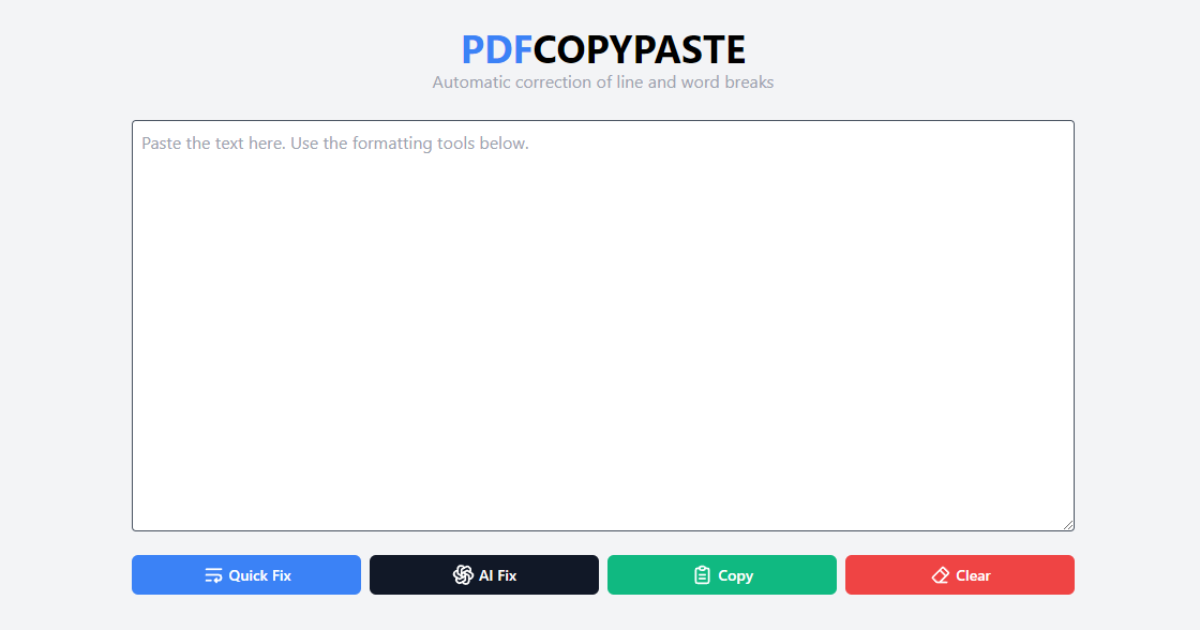
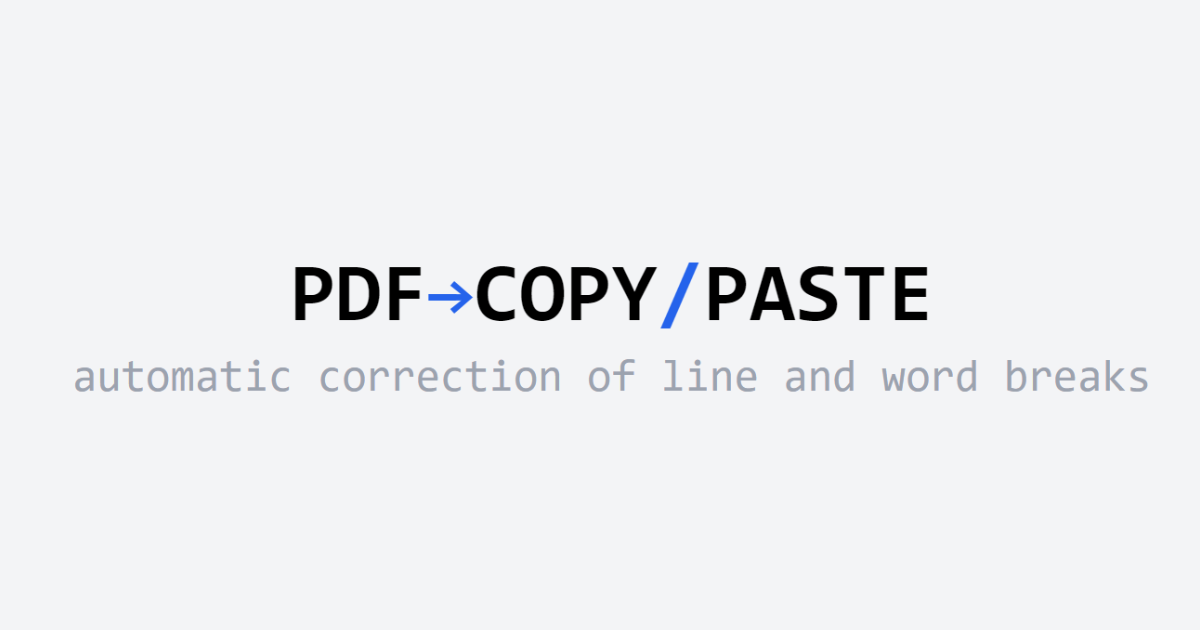
Auto clipboard copy

diff --git a/src/routes/+page.svelte b/src/routes/+page.svelte
@@ -2,11 +2,10 @@
 	import TablerClipboardText from '~icons/tabler/clipboard-text';
 	import TablerTextWrap from '~icons/tabler/text-wrap';
 	import TablerEraser from '~icons/tabler/eraser';
-	import TablerBrandGithub from '~icons/tabler/brand-github';
 	import TablerBrandOpenai from '~icons/tabler/brand-openai';
-	import TablerBrandVercel from '~icons/tabler/brand-vercel';
 
 	let loading = false;
+	let autoClipboard = false;
 
 	let userPrompt = '';
 	let errorMessage: string | undefined = '';
@@ -22,6 +21,10 @@
 			.replace(//g, '')
 			.replace(/‑/g, '-')
 			.replace(/- /g, '');
+
+		if (autoClipboard) {
+			copyClipboard(userPrompt);
+		}
 	}
 
 	async function formatAI() {
@@ -45,6 +48,9 @@
 
 				if (response.message && response.message.content) {
 					userPrompt = response.message.content;
+					if (autoClipboard) {
+						copyClipboard(userPrompt);
+					}
 				} else {
 					errorMessage = 'Something went wrong :(';
 				}
@@ -57,13 +63,6 @@
 		}
 	}
 </script>
-
-<div class="my-6 text-center ">
-	<h1 class="text-4xl font-bold uppercase">
-		<span class="text-blue-500">PDF</span>COPYPASTE
-	</h1>
-	<span class="font-mono text-gray-400">automatic correction of line and word breaks</span>
-</div>
 
 <div>
 	<div class="mx-auto w-full gap-2">
@@ -109,29 +108,24 @@
 	</div>
 </div>
 
-<div class="mx-auto mt-6 text-sm text-gray-500">
+<div class="mx-auto mt-4 text-sm text-gray-500">
 	<p><strong>Quick Fix:</strong> instant, does not preserve paragraphs.</p>
 	<p>
 		<strong>AI Fix:</strong> slower, has a character limit, preserves paragraphs.
 	</p>
 </div>
 
-<div class="mx-auto mt-20 flex gap-6 text-sm text-gray-500">
-	<a
-		href="https://github.com/phenomen/pdfcopypaste"
-		class="flex gap-1 hover:text-gray-900"
-		target="_blank"
-	>
-		<TablerBrandGithub />
-		@phenomen</a
-	>
-	<a href="https://vercel.com/" class="flex gap-1 hover:text-gray-900" target="_blank">
-		<TablerBrandVercel />
-		Vercel</a
-	>
-
-	<a href="https://openai.com/" class="flex gap-1 hover:text-gray-900" target="_blank">
-		<TablerBrandOpenai />
-		OpenAI</a
-	>
+<div class="mx-auto mt-4 flex items-start">
+	<div class="flex h-6 items-center">
+		<input
+			id="autoClipboard"
+			name="autoClipboard"
+			type="checkbox"
+			class="h-4 w-4 rounded border-gray-300 text-blue-600 focus:ring-blue-600"
+			bind:checked={autoClipboard}
+		/>
+	</div>
+	<div class="ml-2 text-sm font-medium leading-6">
+		<label for="autoClipboard">Copy to clipboard after fix</label>
+	</div>
 </div>

diff --git a/src/lib/Footer.svelte b/src/lib/Footer.svelte
@@ -1,0 +1,25 @@
+<script lang="ts">
+	import TablerBrandGithub from '~icons/tabler/brand-github';
+	import TablerBrandOpenai from '~icons/tabler/brand-openai';
+	import TablerBrandVercel from '~icons/tabler/brand-vercel';
+</script>
+
+<div class="mx-auto mt-20 flex gap-6 text-sm text-gray-500">
+	<a
+		href="https://github.com/phenomen/pdfcopypaste"
+		class="flex gap-1 hover:text-gray-900"
+		target="_blank"
+	>
+		<TablerBrandGithub />
+		@phenomen</a
+	>
+	<a href="https://vercel.com/" class="flex gap-1 hover:text-gray-900" target="_blank">
+		<TablerBrandVercel />
+		Vercel</a
+	>
+
+	<a href="https://openai.com/" class="flex gap-1 hover:text-gray-900" target="_blank">
+		<TablerBrandOpenai />
+		OpenAI</a
+	>
+</div>

diff --git a/src/app.html b/src/app.html
@@ -1,12 +1,13 @@
 <!DOCTYPE html>
 <html lang="en">
 	<head>
-		<title>PDFCOPYPASTE</title>
+		<title>PDF→COPY/PASTE</title>
 		<meta charset="utf-8" />
 		<meta name="description" content="Automatic correction of line and word breaks" />
 		<link rel="icon" href="%sveltekit.assets%/favicon.png" />
 		<meta name="viewport" content="width=device-width, initial-scale=1" />
 		<link rel="canonical" href="https://pdf.ruleplaying.com" />
+		<meta property="og:title" content="PDF→COPY/PASTE" />
 		<meta property="og:type" content="website" />
 		<meta property="og:url" content="https://pdf.ruleplaying.com" />
 		<meta property="og:image" content="https://pdf.ruleplaying.com/og.png" />

diff --git a/src/lib/Header.svelte b/src/lib/Header.svelte
@@ -1,0 +1,6 @@
+<div class="my-6 text-center font-mono">
+	<h1 class="text-3xl font-bold uppercase">
+		PDF<span class="text-blue-600">→</span>COPY<span class="text-blue-600">/</span>PASTE
+	</h1>
+	<span class="text-gray-400">automatic correction of line and word breaks</span>
+</div>

diff --git a/src/routes/+layout.svelte b/src/routes/+layout.svelte
@@ -1,5 +1,9 @@
 <script>
 	import '../app.css';
+	import Header from '$lib/Header.svelte';
+	import Footer from '$lib/Footer.svelte';
 </script>
 
+<Header />
 <slot />
+<Footer />
